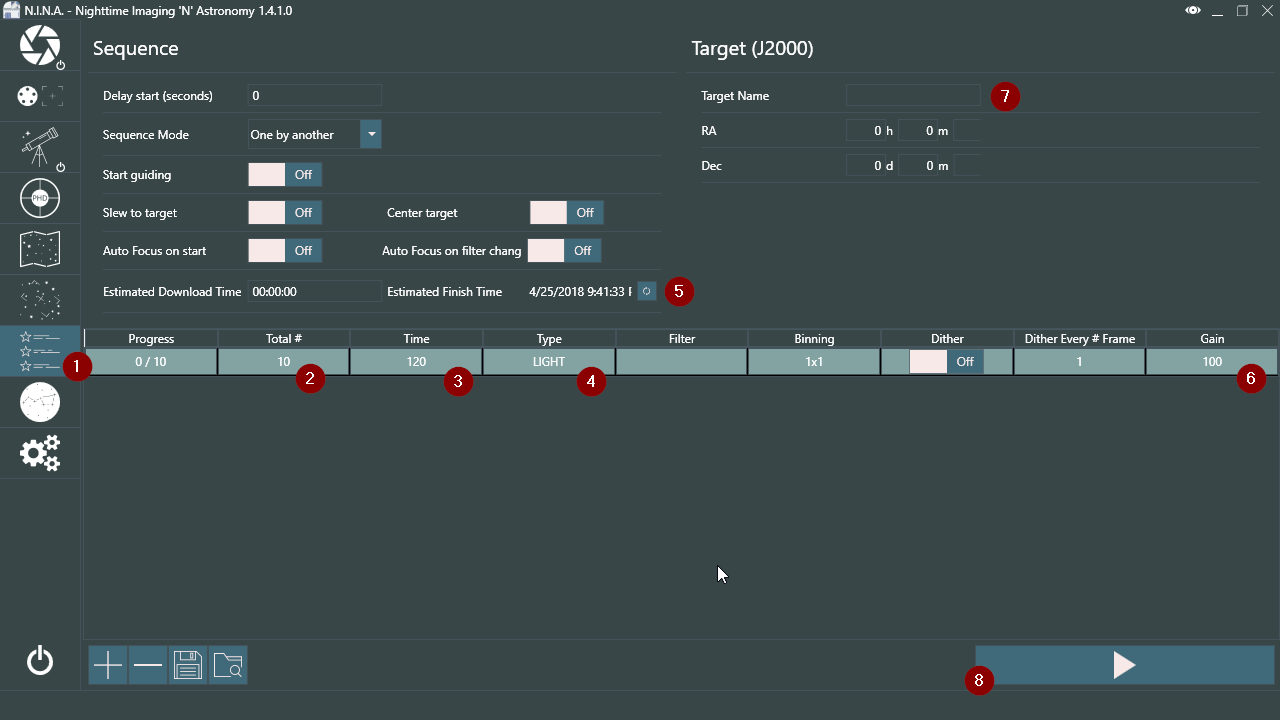
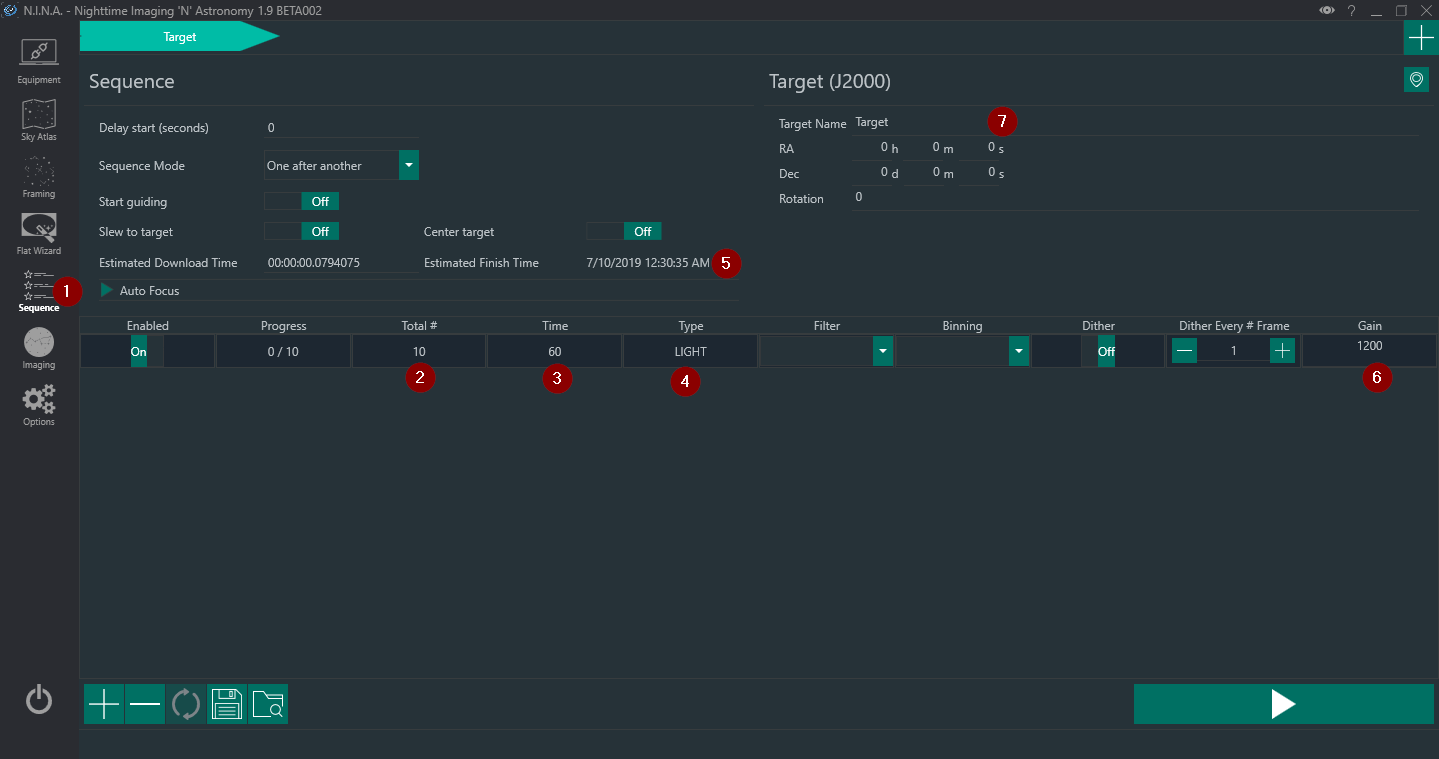
Updated quickstart images

diff --git a/docs/quickstart/sequence.md b/docs/quickstart/sequence.md
@@ -4,7 +4,7 @@ Once you nailed your focus you can switch to the Sequence tab (1).
 
 Here we can find various options. For DSLR users it's a relatively simple matter; enter the amount of images you want to shoot in Total # (2), enter the time for a single image (3) and the type (4), which likely will be LIGHT at that point. The type is only used for the file name pattern that we set in the settings and display on the user interface in the imaging tab. You may also change your gain for the sequence in the Gain column (6).
 
-With a press on the refresh estimated finish time button (5) you can see when the sequence is likely going to end. This value will change during the sequence depending on the average download time of your camera. Once you are satisfied with the sequence settings you can set a target name (7), which will be applied to the file name pattern as well. Finally press Start Sequence (8) to start the imaging sequence. From there on we will switch to the Imaging tab again (8).
+You can see an estimation when the sequence is likely going to end (5). This value will change during the sequence depending on the average download time of your camera. Once you are satisfied with the sequence settings you can set a target name (7), which will be applied to the file name pattern as well. Finally press Start Sequence (8) to start the imaging sequence. From there on we will switch to the Imaging tab again (8).
 
 ![Sequence](../images/quickstart/sequence2.png)
 
